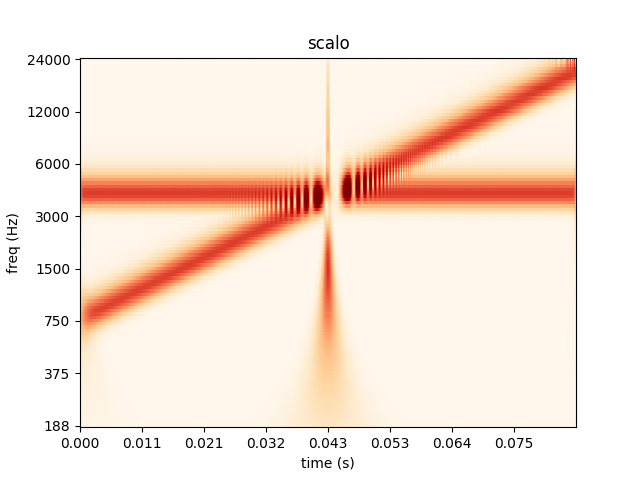
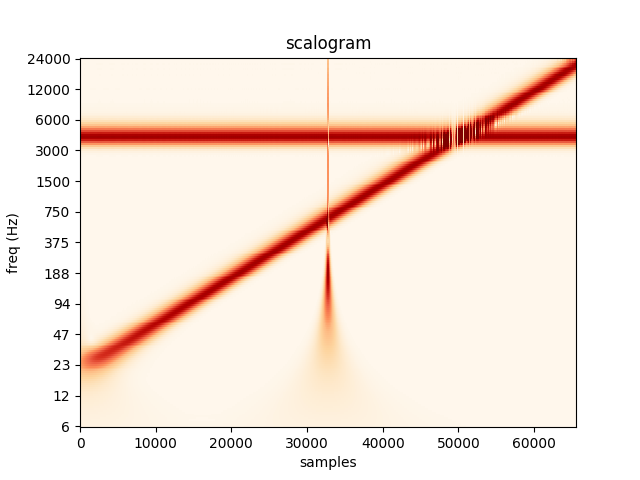
[cm] Final presentation figures

diff --git a/python/scattering_1d.py b/python/scattering_1d.py
@@ -168,7 +168,7 @@ if __name__ == "__main__":
     audio = audio.view(1, 1, -1)
 
     J_1 = 12
-    Q_1 = 12
+    Q_1 = 16
     highest_freq = None
     # highest_freq = 6000
 
@@ -200,7 +200,7 @@ if __name__ == "__main__":
     # plot_scalogram_1d(scalogram_fast[0], title="scalo fast", dt=None, freqs_t=freqs_fast)
     # exit()
 
-    J_2_t = 12
+    J_2_t = 13
     Q_2_t = 1
     # highest_freq_t = None
     highest_freq_t = 12000
@@ -223,6 +223,6 @@ if __name__ == "__main__":
     for y, freq in zip(y_t, freqs_t):
         y = y.squeeze(0).squeeze(0).numpy()
         plt.imshow(y, aspect="auto", interpolation="none", cmap="OrRd")
-        plt.title(f"2nd order time scattering, freq = {freq:.2f}")
+        plt.title(f"2nd order time scattering, freq = {freq:.2f} Hz")
         plt.show()
     exit()

diff --git a/python/scalogram_1d.py b/python/scalogram_1d.py
@@ -91,6 +91,8 @@ def plot_scalogram_1d(scalogram: T,
         x_labels = [f"{_:.3f}" for _ in x_labels]
         plt.xticks(x_pos, x_labels)
         plt.xlabel("time (s)")
+    else:
+        plt.xlabel("samples")
 
     if freqs is not None:
         assert scalogram.shape[0] == len(freqs)
